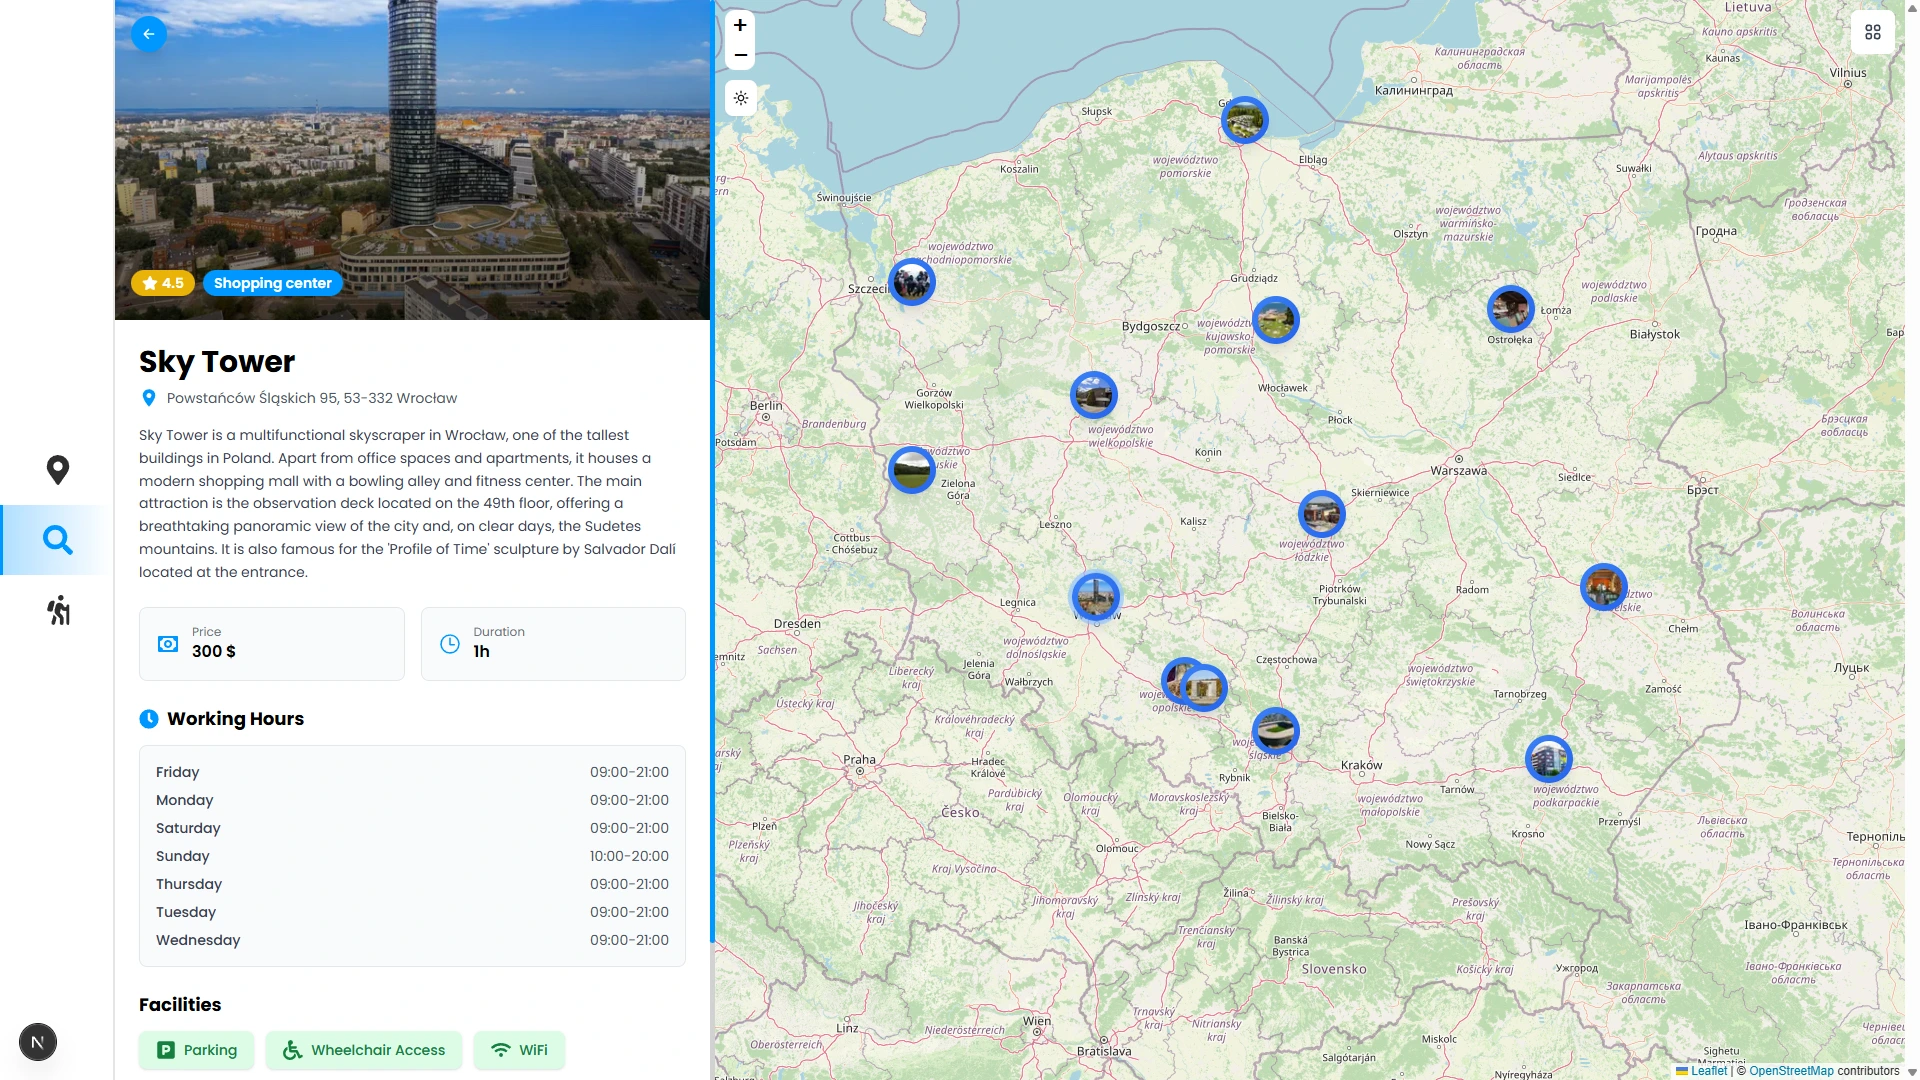
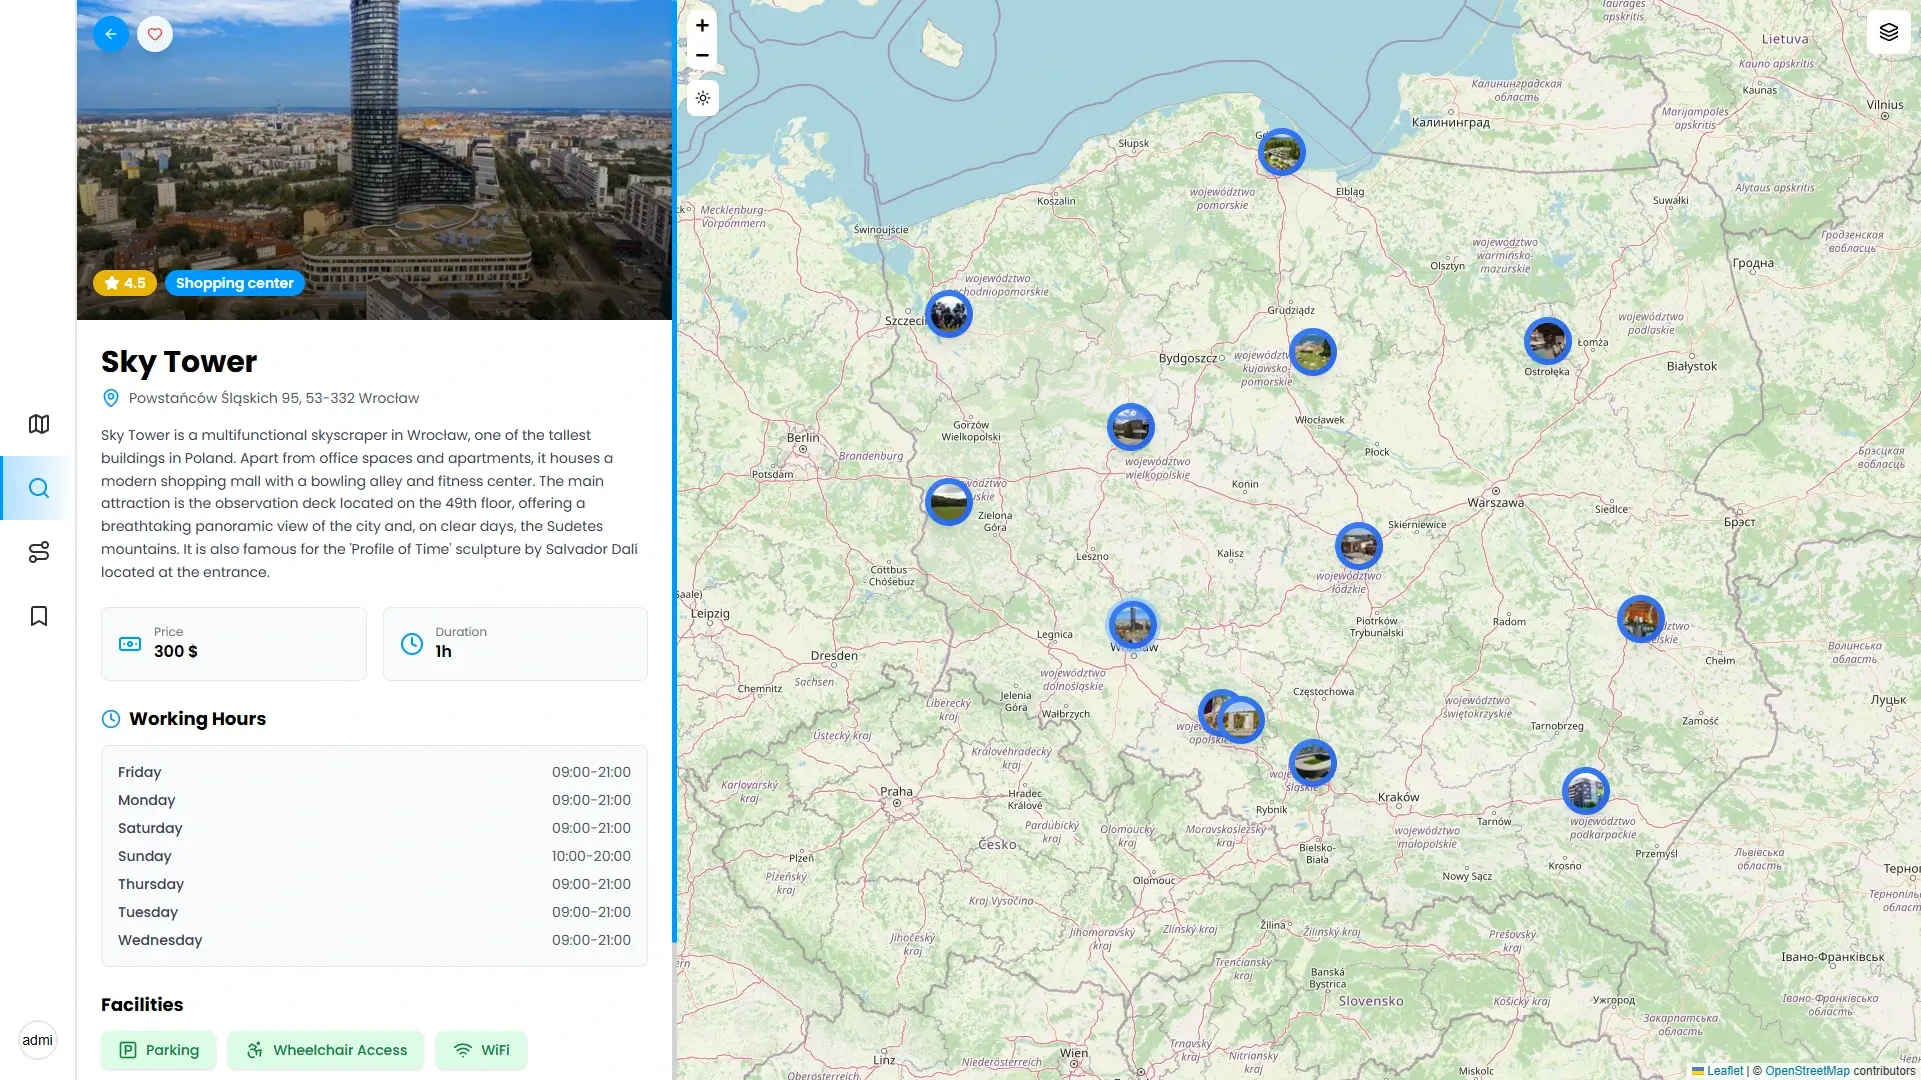
feat: Added a mobile version of the map page to the Hero component

diff --git a/frontend/src/components/layout/hero/Hero.tsx b/frontend/src/components/layout/hero/Hero.tsx
@@ -34,7 +34,7 @@ export default function Hero() {
             </div>
             <div className="overflow-hidden pointer-events-none select-none">
                 <div className="container mx-auto px-4">
-                    <div className="relative w-full mt-12 md:mt-20 pb-[45%] border-t border-x rounded-t-xl md:rounded-t-3xl shadow-xl overflow-hidden">
+                    <div className="relative w-full mt-12 md:mt-20 h-[600px] md:pb-[45%] md:h-auto border-t border-x rounded-t-xl md:rounded-t-3xl shadow-xl overflow-hidden">
                         <div className="absolute inset-0">
                             <Image
                                 src={
@@ -45,8 +45,20 @@ export default function Hero() {
                                 alt="map"
                                 width={1300}
                                 height={200}
-                                className="size-full object-cover object-top pointer-events-none select-none z-10"
+                                className="hidden md:block size-full object-cover object-top pointer-events-none select-none z-10"
                             />
+                            <Image
+                                src={
+                                    theme === "dark"
+                                        ? "/mobile-map-page2.webp"
+                                        : "/mobile-map-page1.webp"
+                                }
+                                alt="map"
+                                width={450}
+                                height={600}
+                                className="md:hidden size-full object-cover object-top pointer-events-none select-none z-10"
+                            />
+                            <div className="md:hidden absolute inset-x-0 bottom-0 h-32 bg-gradient-to-t from-background to-transparent z-20" />
                         </div>
                     </div>
                 </div>
